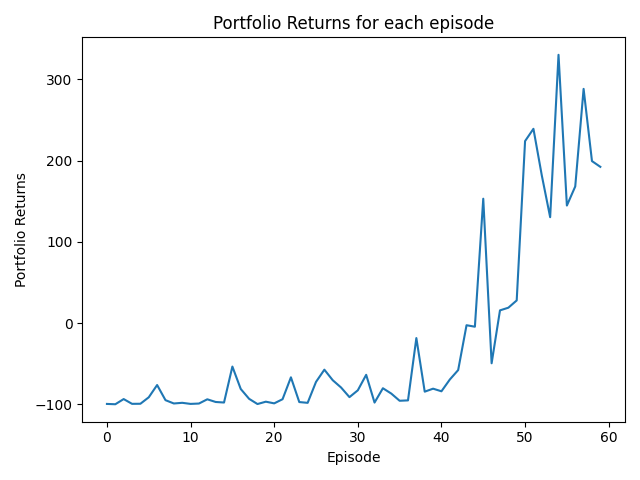
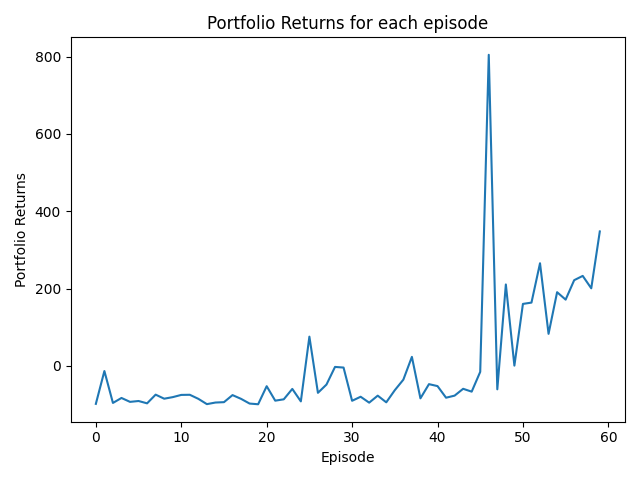
PER implementation and test run

diff --git a/per_testrun_main.py b/per_testrun_main.py
@@ -1,0 +1,36 @@
+import gymnasium as gym
+import gym_trading_env
+import pickle
+from utils import plot_portfolio_returns,load_stock_data
+from agent import PERAgent
+
+url = "https://raw.githubusercontent.com/ClementPerroud/Gym-Trading-Env/main/examples/data/BTC_USD-Hourly.csv"
+df = load_stock_data(url=url)
+env = gym.make("TradingEnv",
+               name= "BTCUSD",
+               df = df,
+               positions = [ -0.5, 0, 1],
+               trading_fees = 0.01/100,
+               borrow_interest_rate= 0.0003/100,
+              #  reward_function = c_reward,
+    )
+
+agent = PERAgent(7, 3)
+with open('per_agent_state_dict.p','rb') as f:
+    state_dict = pickle.load(f)
+agent.set_params(state_dict)
+episodes = 10
+
+returns = []
+
+for i in range(episodes):
+    obs, info = env.reset()
+    done, truncated = False, False
+    while not done and not truncated:
+        action = agent.choose_greedy_action(obs)
+        next_obs, reward, done, truncated, info = env.step(action)
+        obs = next_obs
+    ret = float(env.unwrapped.get_metrics()["Portfolio Return"].strip("%"))
+    returns.append(ret)
+    print("Episode: ",i+1, ", Portfolio Return: ",ret)
+plot_portfolio_returns(returns, "per_portfolio_returns_test.png")

diff --git a/per_trainingloop_main.py b/per_trainingloop_main.py
@@ -1,5 +1,6 @@
 import gymnasium as gym
 import gym_trading_env
+import pickle
 from utils import load_stock_data, plot_epsilon_and_rewards, plot_portfolio_returns
 from agent import PERAgent
 
@@ -8,7 +9,7 @@ df = load_stock_data(url=url)
 env = gym.make("TradingEnv",
                name= "BTCUSD",
                df = df,
-               positions = [ -1, 0, 1],
+               positions = [ -0.5, 0, 1],
                trading_fees = 0.01/100,
                borrow_interest_rate= 0.0003/100,
               #  reward_function = c_reward,
@@ -43,3 +44,8 @@ for i in range(episodes):
     print("Episode: ", i+1, ", Cum rewards: ", rewards, ", Agent exploration rate: ", agent.eps, ", Steps taken: ", agent.iter_cntr)
 plot_epsilon_and_rewards(epsilon_history, cum_reward_history, "per_training_rewards.png")
 plot_portfolio_returns(returns, "per_portfolio_returns_training.png")
+
+state_dict = agent.get_params()
+with open('per_agent_state_dict.p','wb') as f:
+    pickle.dump(state_dict,f)
+print("Plots and state dictionary saved successfully")

diff --git a/agent.py b/agent.py
@@ -118,6 +118,11 @@ class DeepQAgent:
             self.q_target.set_params(self.q_eval.state_dict())
 
         self.iter_cntr += 1
+    def set_params(self, state_dict):
+        self.q_eval.set_params(state_dict)
+        self.q_target.set_params(state_dict)
+    def get_params(self):
+        return self.q_target.state_dict()
 
 class PERAgent:
     def __init__(self, obs_space, n_actions, lr=0.001, learn_update_rule="SGD", batch_size=512, update_frequency=1000,
@@ -231,4 +236,9 @@ class PERAgent:
 
         self.eps = max(self.eps_min, self.eps - self.eps_decay)
         self.iter_cntr += 1
+    def set_params(self, state_dict):
+        self.q_eval.set_params(state_dict)
+        self.q_target.set_params(state_dict)
+    def get_params(self):
+        return self.q_target.state_dict()
 
